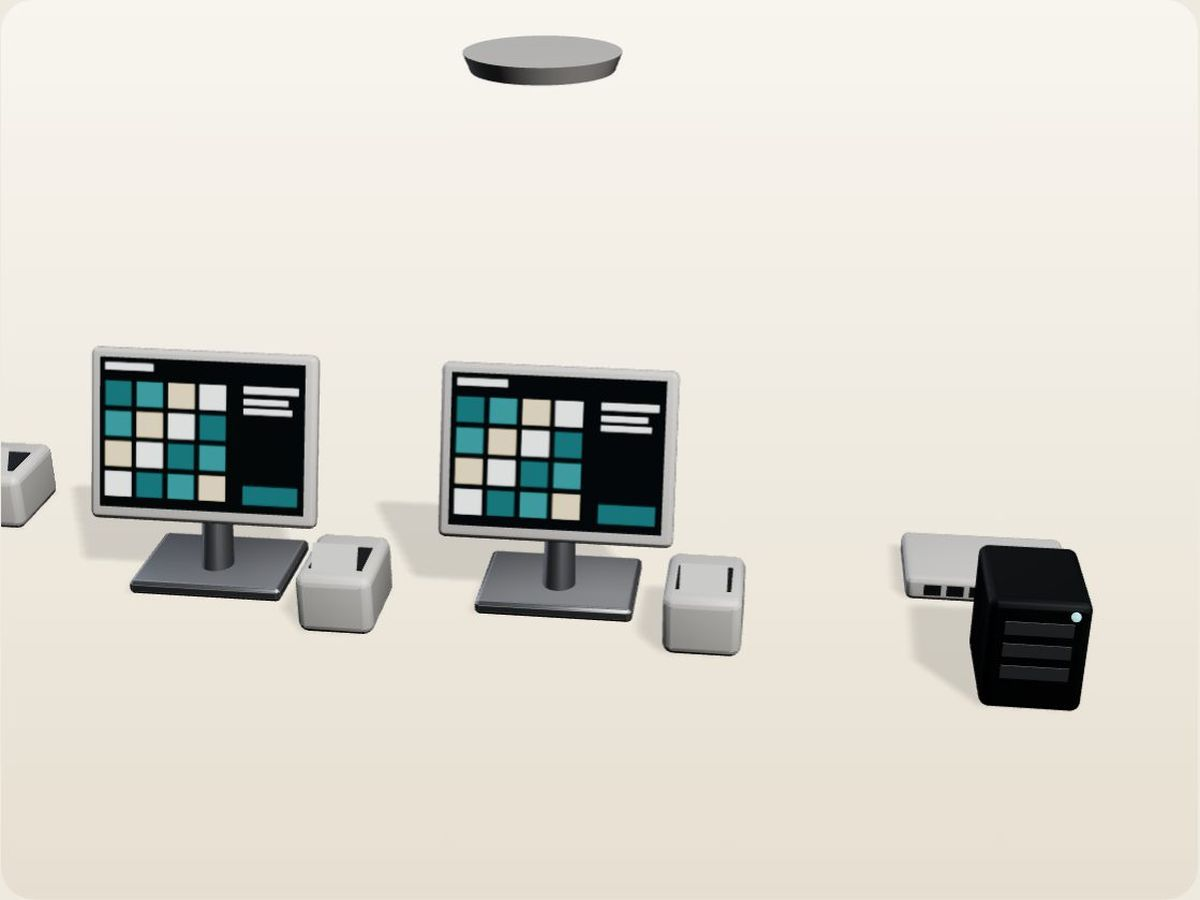
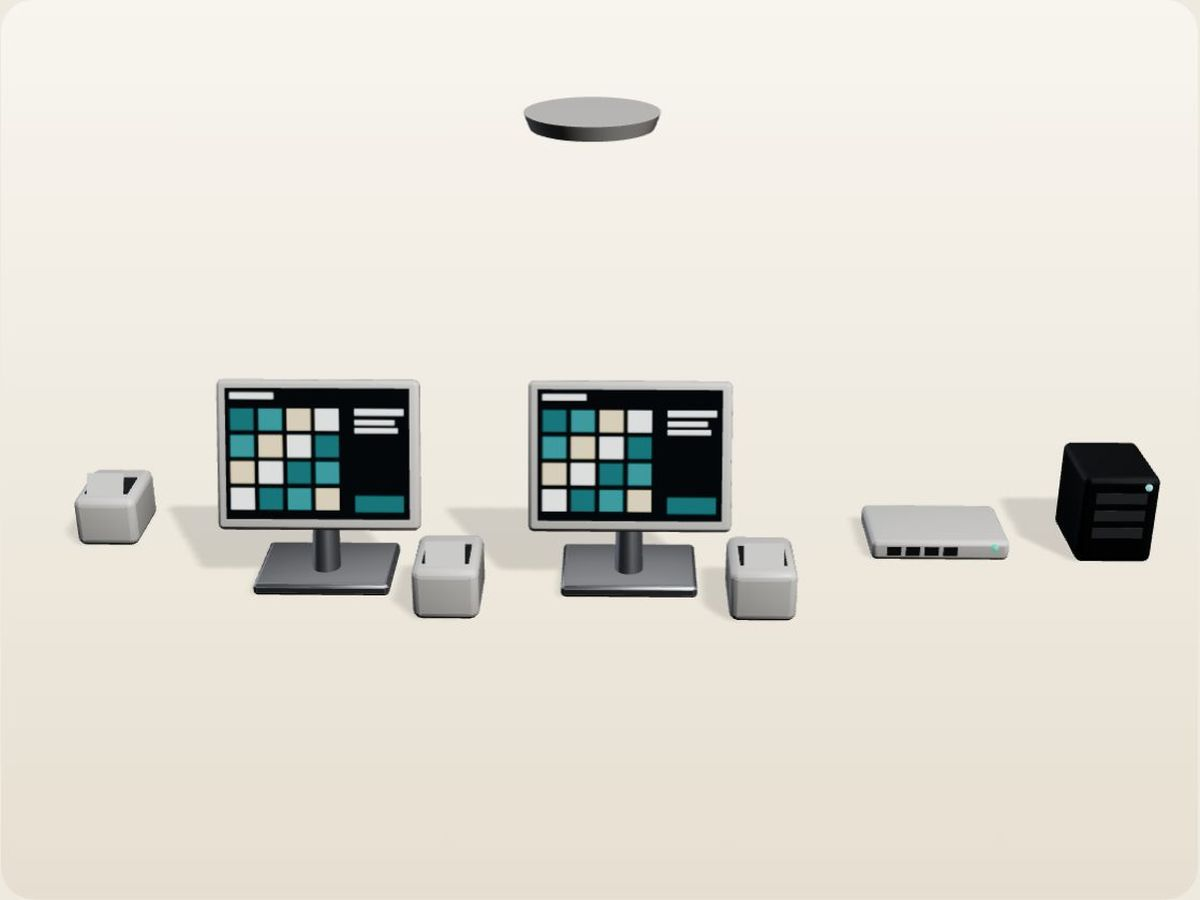
wip digitech-bahamas: framed kit, poster

Changed region(s): [[0.0, 0.3733, 0.6783, 0.7467], [0.7092, 0.4667, 0.9867, 0.8089], [0.37, 0.0311, 0.555, 0.1556]]

diff --git a/factory/web/sites/digitech-bahamas/index.html b/factory/web/sites/digitech-bahamas/index.html
@@ -11,8 +11,6 @@
 <meta name="theme-color" content="#efeae0">
 <meta property="og:image" content="https://ip-assets-digitech-bahamas.lovable.app/assets/counter-hero.jpg">
 <link rel="icon" href="favicon.svg" type="image/svg+xml">
-<link rel="preload" as="image" href="https://ip-assets-digitech-bahamas.lovable.app/assets/counter-hero.jpg" media="(min-width: 761px)" fetchpriority="high">
-<link rel="preload" as="image" href="https://ip-assets-digitech-bahamas.lovable.app/assets/counter-hero-m.jpg" media="(max-width: 760px)" fetchpriority="high">
 <link rel="stylesheet" href="../assets/concept.css">
 <script type="application/ld+json">
 {
@@ -132,12 +130,11 @@
   "Animated headings split words into single letters, which reads badly on phones and to Google; the network service has a typo ('gound')."
  ],
  "improvements": [
-  "A first screen that shows the product: one Nassau counter, then an X-ray of everything you build behind it (POS, cabling, Wi-Fi with VLANs, cloud backup).",
-  "Your four services as one clear selector, each with what is included.",
-  "A site-visit request that sends the sales desk the business type, needs and number of tills in one email.",
-  "One address, two phone lines and one email, consistent everywhere, with tap-to-call on phones.",
-  "Local search markup for 'POS systems Nassau' and 'IT support Nassau'. The illustrative photos are placeholders for your own install photos."
- ],
+ "Screen one is a quote composer: choose restaurant, shop or office, how many tills, Wi-Fi and backup, and the counter assembles in studio-lit 3D beside a plain-words list of what Digitech supplies, installs, trains and supports.",
+ "One button sends that list to sales@digitechbahamas.com, ready to check; calling (242) 676-2033 is right beside it. No more buttons that link to '#'.",
+ "Your four services kept in one selector, with support after installation written as what you actually deliver.",
+ "No theme stock photos and no '0+' counters; the client names from your own logos."
+],
  "agency": "ESTATIQ AI Solutions",
  "contact": "balazs@estatiq.co"
 }

diff --git a/factory/web/sites/digitech-bahamas/src/Kit3D.tsx b/factory/web/sites/digitech-bahamas/src/Kit3D.tsx
@@ -132,14 +132,17 @@ function Rig({ s }: { s: KitState }) {
   const xs = (n: number, i: number) => (i - (n - 1) / 2) * pitch - 0.45
   const aps = s.wifi ? Math.ceil(s.count / 4) : 0
   const camTarget = useRef(new THREE.Vector3())
+  const lookAt = useRef(new THREE.Vector3(0, 0.5, 0.1))
   const { camera, size } = useThree()
   useFrame(() => {
-    const span = s.count * pitch + 2.4
+    const left = xs(s.count, 0) - (s.kind === 'fnb' ? 1.0 : 0.4), right = xs(s.count, s.count - 1) + 1.75
+    const span = right - left + 0.4, mid = (left + right) / 2
     const aspect = size.width / size.height
-    const dist = Math.max(2.3, (span / aspect) * 0.86 + 0.95)
-    camTarget.current.set(0.6, 1.0 + dist * 0.34, dist)
+    const dist = Math.max(2.6, (span / aspect) * 1.35 + 0.4)
+    camTarget.current.set(mid, 1.0 + dist * 0.34, dist)
+    lookAt.current.lerp(new THREE.Vector3(mid, 0.5, 0.1), reduce ? 1 : 0.06)
     camera.position.lerp(camTarget.current, reduce ? 1 : 0.06)
-    camera.lookAt(0.15, 0.5, 0.1)
+    camera.lookAt(lookAt.current)
   })
   return (
     <group>
@@ -158,8 +161,8 @@ function Rig({ s }: { s: KitState }) {
       })}
       <Slot on={s.kind === 'fnb'} pos={[xs(s.count, 0) - 0.75, 0, -0.35]} delay={0.2}><Printer /></Slot>
       {/* network corner */}
-      <Slot on pos={[xs(s.count, s.count - 1) + 1.15, 0, -0.25]} delay={0.25}><Router /></Slot>
-      <Slot on={s.backup} pos={[xs(s.count, s.count - 1) + 1.2, 0, 0.25]} delay={0.3}><Backup /></Slot>
+      <Slot on pos={[xs(s.count, s.count - 1) + 1.0, 0, -0.3]} delay={0.25}><Router /></Slot>
+      <Slot on={s.backup} pos={[xs(s.count, s.count - 1) + 1.55, 0, -0.3]} delay={0.3}><Backup /></Slot>
       {[0, 1].map(i => <Slot key={i} on={i < aps} pos={[aps === 2 ? (i ? 1.2 : -1.4) : -0.1, 1.3, -0.7]} delay={0.35 + i * 0.08}><AccessPoint /></Slot>)}
     </group>
   )
